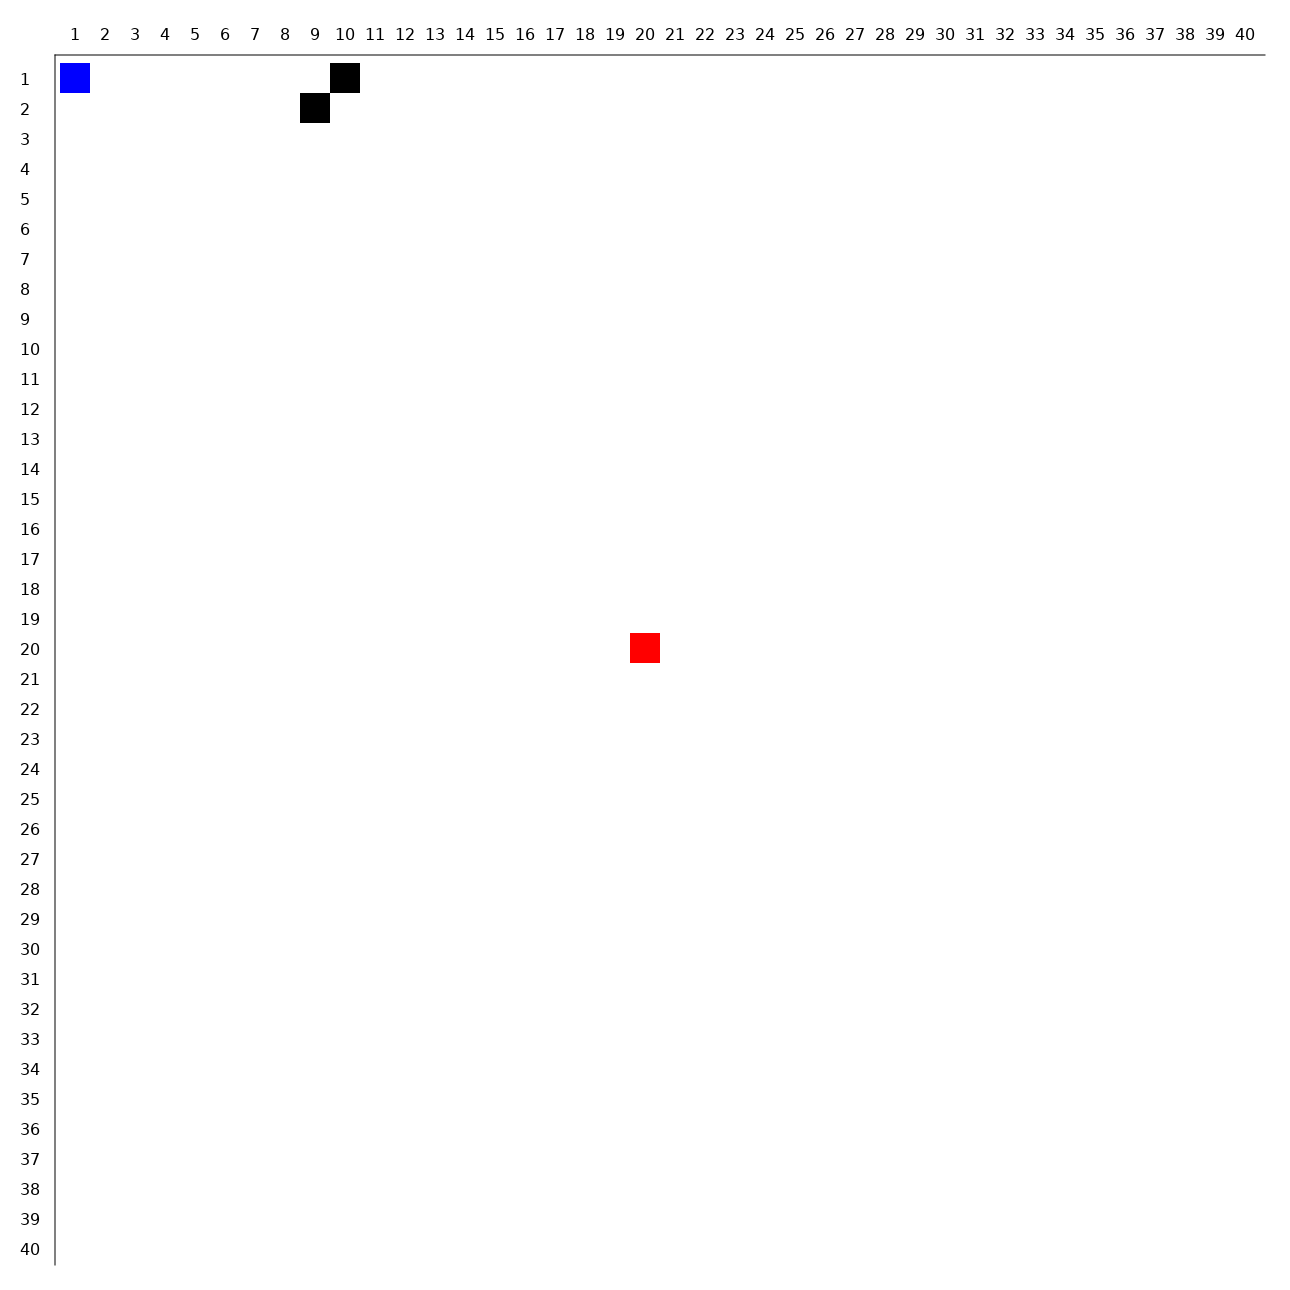
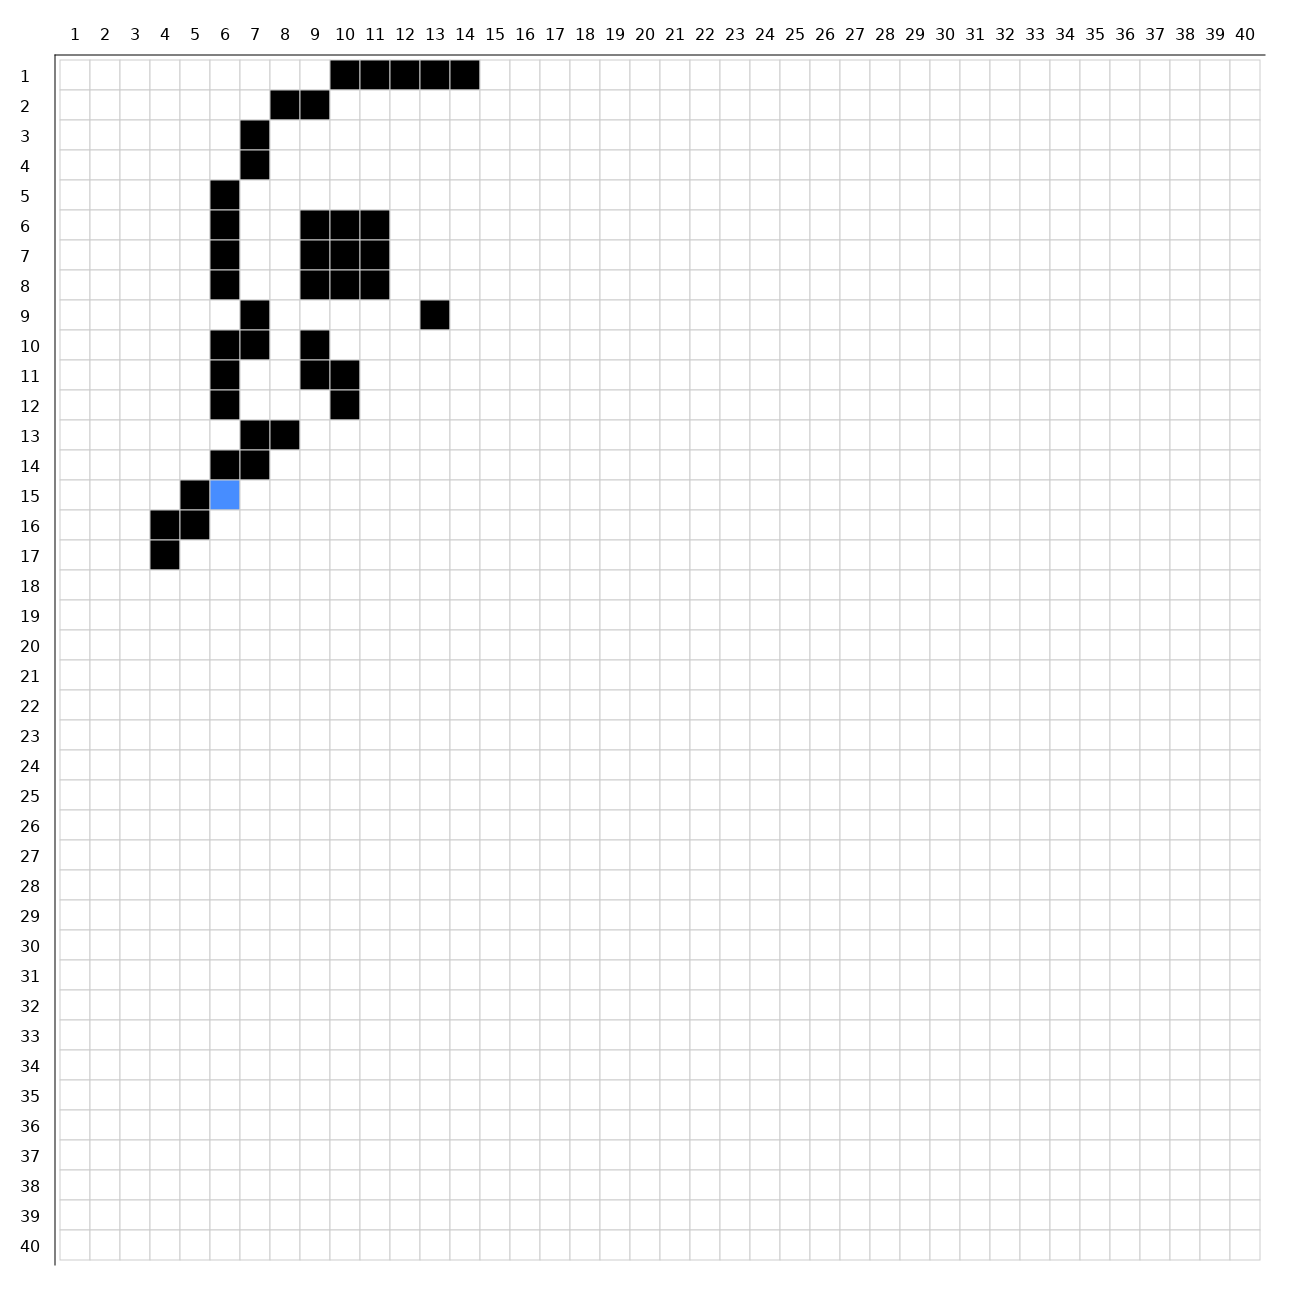
Improve rplace command and start imporiving TrTime with human wall clock time

diff --git a/src/main/kotlin/beanly/exts/commands/utility/rplace/RPlaceCanvas.kt b/src/main/kotlin/beanly/exts/commands/utility/rplace/RPlaceCanvas.kt
@@ -56,7 +56,8 @@ class RPlaceCanvas {
         dbCanvas.copyInto(canvas)
     }
 
-    suspend fun sendCanvas(ctx: CommandContext) {
+    suspend fun sendCanvas(ctx: CommandContext, grid: Boolean = true) {
+        createAndSaveImage(grid)
         ctx.sendMessage(
             embed {
                 title = "${Emoji.WHITE_SQUARE_BUTTON}  Current canvas stats:"
@@ -143,7 +144,7 @@ class RPlaceCanvas {
         // Create a cooldown of 15 minutes.
         val newTimer = RPlaceTimer(
             Date.from(
-                LocalDateTime.now().plusMinutes(15).atZone(ZoneId.systemDefault()).toInstant()
+                LocalDateTime.now().plusMinutes(5).atZone(ZoneId.systemDefault()).toInstant()
             ),
             user.id
         )
@@ -153,7 +154,7 @@ class RPlaceCanvas {
         return true
     }
 
-    private fun createAndSaveImage() {
+    private fun createAndSaveImage(grid: Boolean = false) {
         val file = File(IMAGE_PATH)
         val image = BufferedImage(IMAGE_SIZE, IMAGE_SIZE, BufferedImage.TYPE_INT_ARGB).apply {
             createGraphics().apply {
@@ -169,7 +170,7 @@ class RPlaceCanvas {
                 for (coord in 1..CANVAS_SIZE) {
                     // Draw x and y axes labels.
                     drawString(coord.toString(), (if (coord < 10) 40 else 35) + coord * 30, 40)
-                    drawString(coord.toString(), 20, 55 + coord * 30)
+                    drawString(coord.toString(), 20, 52 + coord * 30)
                 }
 
                 // Draw x and y axes, respectively.
@@ -179,7 +180,12 @@ class RPlaceCanvas {
                 for (xC in 0 until CANVAS_SIZE) {
                     for (yC in 0 until CANVAS_SIZE) {
                         paint = canvas[yC][xC]
-                        fillRect(60 + xC * 30, 63 + yC * 30, 30, 30)
+                        fillRect(60 + xC * 30, 60 + yC * 30, 30, 30)
+
+                        if (grid) {
+                            paint = Color.decode("#CCCCCC")
+                            drawRect(60 + xC * 30, 60 + yC * 30, 30, 30)
+                        }
                     }
                 }
                 dispose()

diff --git a/src/main/kotlin/framework/core/transformers/TrTime.kt b/src/main/kotlin/framework/core/transformers/TrTime.kt
@@ -2,6 +2,10 @@ package framework.core.transformers
 
 import framework.core.transformers.utility.SplitTime
 import net.dv8tion.jda.api.events.message.MessageReceivedEvent
+import java.time.Instant
+import java.time.LocalDateTime
+import java.time.format.DateTimeFormatter
+import java.time.format.DateTimeParseException
 
 class TrTime(
     override val optional: Boolean = false,
@@ -9,6 +13,30 @@ class TrTime(
 ) : Transformer<SplitTime> {
 
     override fun transform(event: MessageReceivedEvent, args: MutableList<String>): SplitTime {
+        if (args.isEmpty()) {
+            if (optional) {
+                return default
+            }
+            throw IllegalArgumentException()
+        }
+
+        // Try checking for a calendar/clock time (i.e. "July 20 4:31 PM").
+        try {
+            val year = LocalDateTime.now().year
+            // TODO: also fill in month and day and add to help texts
+            val time = HUMAN_TIME_FORMATTER.parse("${args[0]} $year EST")
+
+            return try {
+                SplitTime(Instant.from(time).toEpochMilli() - System.currentTimeMillis())
+            } catch (e: Exception) {
+                println(e.message)
+                throw e
+            }
+        } catch (e: DateTimeParseException) {
+            // Ignored; the code should continue to the next tests.
+        }
+
+        // Start checking for a interval of time, since it wasn't a calendar/clock form thing.
         val isTime = args.takeWhile { it.matches(TIME_REGEX) }
         if (isTime.isEmpty()) {
             throw IllegalArgumentException()
@@ -35,5 +63,6 @@ class TrTime(
 
     companion object {
         private val TIME_REGEX = """((\d*d)|(\d*h)|(\d*m)|(\d*s))""".toRegex()
+        private val HUMAN_TIME_FORMATTER = DateTimeFormatter.ofPattern("[MMM dd ]hh:mm a yyyy z")
     }
 }

diff --git a/src/main/kotlin/framework/core/Bot.kt b/src/main/kotlin/framework/core/Bot.kt
@@ -6,6 +6,7 @@ import framework.core.annotations.CommandGroup
 import framework.core.annotations.ListenerGroup
 import framework.core.paginators.PaginationReactionListener
 import mu.KotlinLogging
+import net.dv8tion.jda.api.JDA
 import net.dv8tion.jda.api.JDABuilder
 import net.dv8tion.jda.api.hooks.ListenerAdapter
 import org.yaml.snakeyaml.Yaml
@@ -14,14 +15,8 @@ import java.io.File
 open class Bot(configPath: String) {
     val config = Yaml().loadAs(File(configPath).readText(), BotConfig::class.java)!!
 
-    val jda = JDABuilder()
-        .setToken(config.token)
-        .build()
-
-    // This is safe because [Dispatcher] does not use the instance of [Bot] being constructed in
-    // its constructor, but only when it will actually be fully initialized.
-    @Suppress("LeakingThis")
-    private val dispatcher = Dispatcher(jda, this, config.prefix)
+    val jda: JDA
+    private val dispatcher: Dispatcher
 
     private val cl = ClassLoader.getSystemClassLoader()
 
@@ -77,6 +72,15 @@ open class Bot(configPath: String) {
     val listenerNames get() = listeners.map { it.javaClass.name.substringAfterLast(".") }
 
     init {
+        jda = JDABuilder()
+            .setToken(config.token)
+            .build()
+
+        // This is safe because [Dispatcher] does not use the instance of [Bot] being constructed in
+        // its constructor, but only when it will actually be fully initialized.
+        @Suppress("LeakingThis")
+        dispatcher = Dispatcher(jda, this, config.prefix)
+
         // Register the reaction listener that handles paginator page changing.
         listeners += PaginationReactionListener()
 

diff --git a/src/main/kotlin/beanly/exts/commands/FunCommands.kt b/src/main/kotlin/beanly/exts/commands/FunCommands.kt
@@ -299,20 +299,21 @@ class FunCommands {
         aliases = listOf("redditplace")
 
         extDescription = """
-            |`$name [view|colors|put] [x] [y] [color]`\n
+            |`$name [raw|colors|put] [x] [y] [color]`\n
             |A small r/place in Discord! The first argument should be an action to perform. If it
             |is `view`, I will send you a picture of the canvas as of now. It if is `colors`, I'll
             |send you all the available colors. If it is `put`, you should specify three more
             |arguments: the `x` coordinate, `y` coordinate, and `color` you want your pixel to be.
             |Like on a cartesian plane, the x axis goes horizontally and the y axis goes
-            |vertically. Note that you can only place a pixel every 15 minutes, and that the canvas
+            |vertically. Note that you can only place a pixel every 5 minutes, and that the canvas
             |is shared across all the servers I'm in.
         """.trimToDescription()
 
-        expectedArgs = listOf(TrWord(true, "view"), TrInt(true), TrInt(true), TrWord(true))
+        expectedArgs = listOf(TrWord(true), TrInt(true), TrInt(true), TrWord(true))
         execute { ctx, args ->
             when (args.get<String>(0)) {
-                "view" -> canvas.sendCanvas(ctx)
+                "" -> canvas.sendCanvas(ctx)
+                "nogrid" -> canvas.sendCanvas(ctx,false)
                 "colors" -> canvas.sendColors(ctx)
                 "put" -> canvas.putPixelContext(ctx, args)
                 else -> ctx.error("That operation is invalid!")
